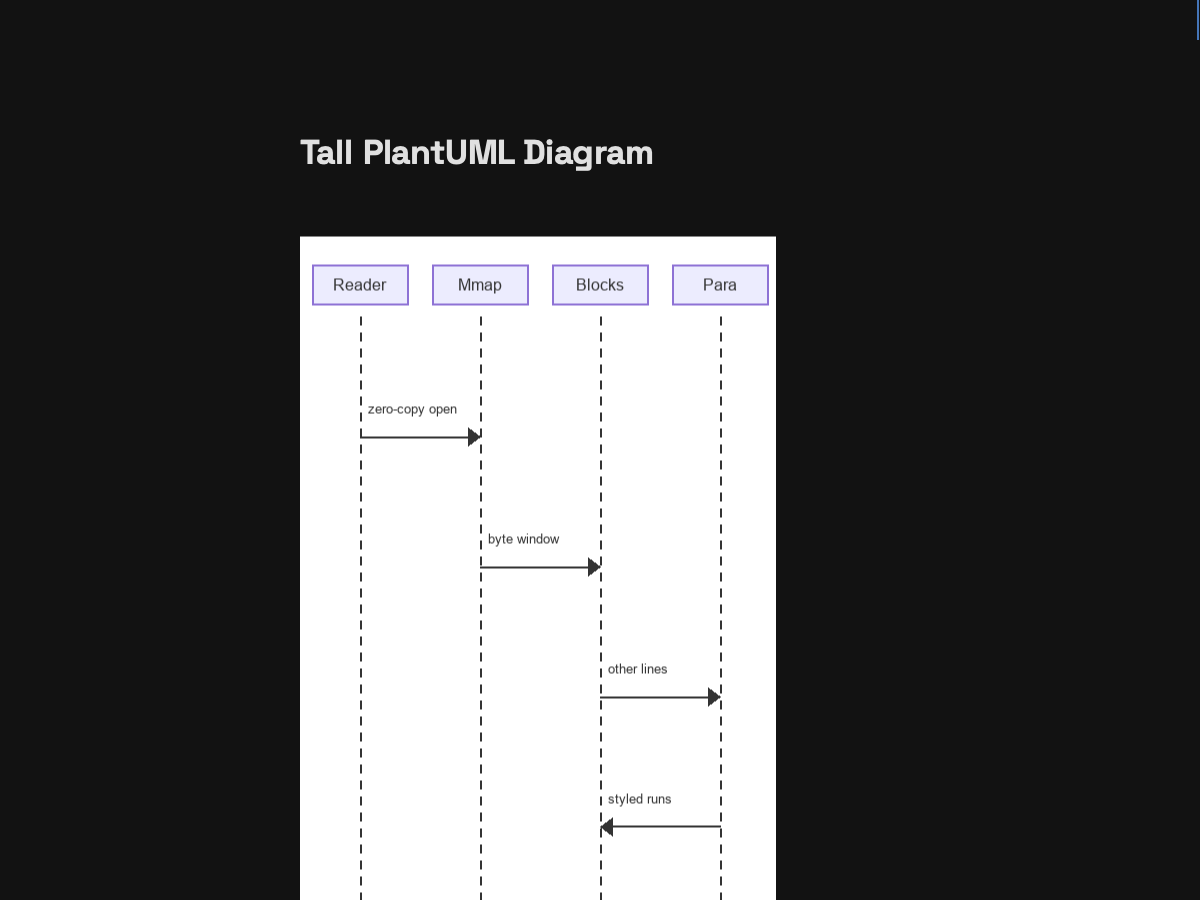
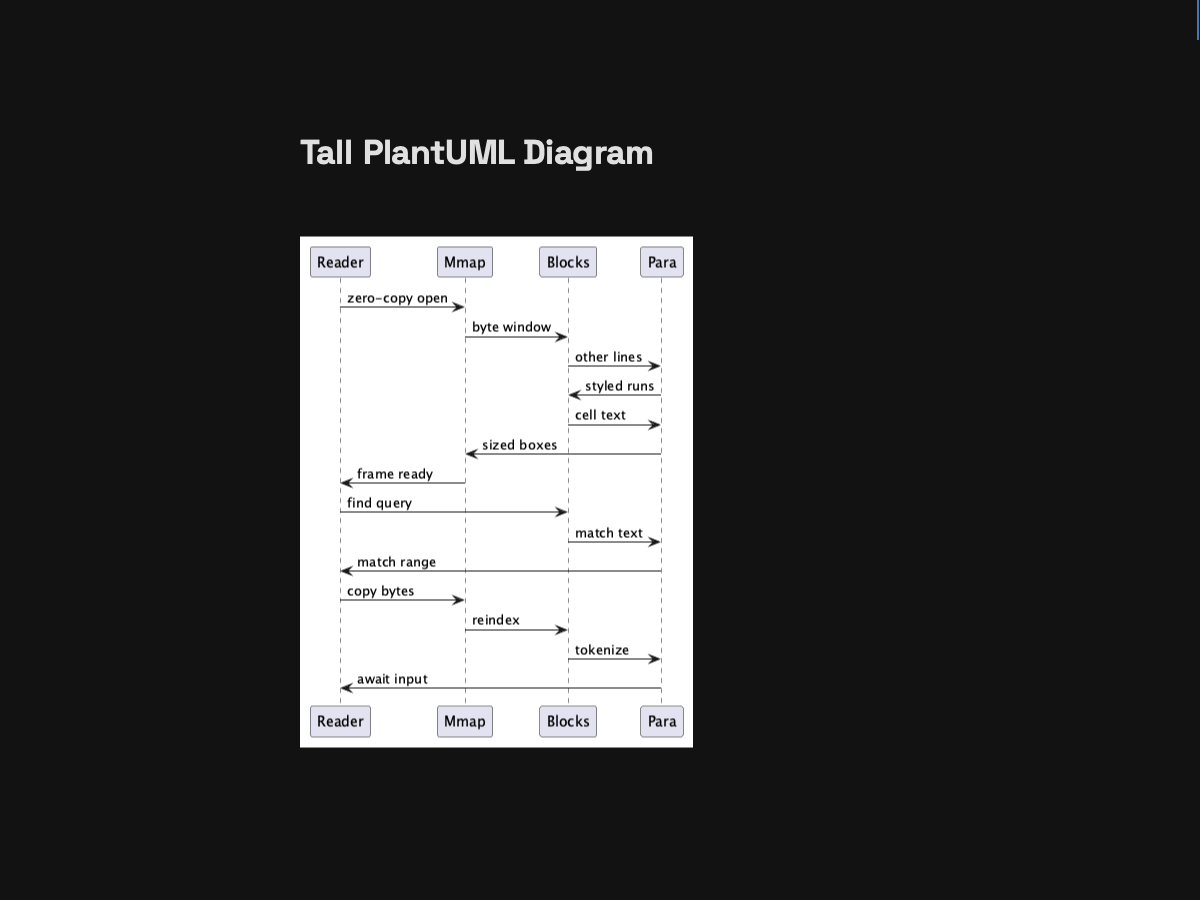
[#328] Real PlantUML renders for all seeds (round-two review)
Owner: the Pillow-mimicked seeds faked PlantUML support. All three
seeds are now genuine PlantUML 1.2026.8 output for the exact fixture
fence sources (plantuml -tpng, the shipped helper's flags), verified
reproducible: scripts/gen-plugin-seeds.py shells out to the real
plantuml binary (fails loudly without it) and regenerates
pixel-identical assets for all three. The fixtures compiled cleanly as
written; only the pixels change.

PlantUML lays sequence diagrams out compactly (tall is 393x511, not a
2080px sheet), so the whole render fits the initial fold: the 700/1400
scrolled frames are removed (700 showed only the bottom footer sliver
plus empty viewport). Complexity coverage stays in the diagrams
themselves: 14 messages across four participants, eight participants
wide.

Suite 436/436 green. No src/ changes: ship binary untouched by this PR.

Changed region(s): [[0.2467, 0.2489, 0.6475, 1.0], [0.2775, 0.4356, 0.4625, 0.5911], [0.37, 0.56, 0.4008, 0.5911]]

diff --git a/scripts/gen-plugin-seeds.py b/scripts/gen-plugin-seeds.py
@@ -1,16 +1,19 @@
 #!/usr/bin/env python3
 """Regenerate plugin seed PNGs (issues #330/#329/#328/#326/#327).
 
-Each seed is a faithful static mimic of a real renderer output for its
-test_cases/plugin_*.md fixture: d2/graphviz/plantuml draw the fixture's
-two-node diagram (labels mirror the fixture), math/mathjax draw the
-fixture's formula typeset in STIX. Tall/wide companions
-(*-seed-tall.png, *-seed-wide.png) mirror the tall/wide fixtures
-node-for-node the same way; math-seed.png draws the simplified fixture
-formula, *-seed-complex.png the complex companions. Synthetic-but-plausible
-stand-ins (no d2/dot/plantuml/katex binaries in this env); the screenshot
-path proven (stat-exists seed -> ready -> stock image decode) is production,
-per suite practice (cf. scripts/gen-mermaid-seed.py).
+plantuml seeds are genuine PlantUML-engine renders of their
+test_cases/plugin_plantuml*.md fixture fence sources (PlantUML 1.2026.8;
+*_seed functions shell out to the real binary and fail loudly without
+it). Remaining seeds are faithful static mimics of real renderer output:
+d2/graphviz draw the fixture's diagram (labels mirror the fixture),
+math/mathjax draw the fixture's formula typeset in STIX. Tall/wide
+companions (*-seed-tall.png, *-seed-wide.png) mirror the tall/wide
+fixtures node-for-node the same way; math-seed.png draws the simplified
+fixture formula, *-seed-complex.png the complex companions.
+Synthetic-but-plausible stand-ins (no d2/dot/katex binaries in this env);
+the screenshot path proven (stat-exists seed -> ready -> stock image
+decode) is production, per suite practice
+(cf. scripts/gen-mermaid-seed.py).
 
 Requires Pillow (fixture generation only, never ships): pip install pillow.
 Usage:  python3 scripts/gen-plugin-seeds.py
@@ -88,30 +91,80 @@ def graphviz_seed():
     return im, "graphviz-seed.png"
 
 
+def _real_tool_render(fixture_md, info_token, out_name, tool, args):
+    # Genuine engine render of the fixture's fence source (round-two
+    # revision: seeds are real tool output, never Pillow mimics). Fails
+    # loudly when the tool is absent so a synthetic image can never pass
+    # silently.
+    import subprocess
+    import tempfile
+    root = os.path.dirname(os.path.dirname(os.path.abspath(__file__)))
+    lines = open(os.path.join(root, fixture_md)).read().split('\n')
+    start = next(i for i, l in enumerate(lines)
+                 if l.lstrip().startswith('```') and
+                 l.lstrip()[3:].strip().split(' ')[:1] == [info_token])
+    end = next(i for i in range(start + 1, len(lines))
+               if lines[i].lstrip().startswith('```'))
+    with tempfile.NamedTemporaryFile('w', suffix='.src',
+                                     delete=False) as f:
+        f.write('\n'.join(lines[start + 1:end]) + '\n')
+        src = f.name
+    out = os.path.join(os.getcwd(), out_name)
+    try:
+        r = subprocess.run([tool] + [a.replace('SRC', src).replace(
+            'OUT', out) for a in args], capture_output=True, text=True)
+    except FileNotFoundError:
+        sys.exit("FAIL: %s binary not found (needed for %s)" %
+                 (tool, out_name))
+    finally:
+        os.unlink(src)
+    if r.returncode != 0 or not os.path.exists(out):
+        sys.exit("FAIL: %s render %s: %s" %
+                 (tool, fixture_md, (r.stderr or '').strip()))
+    return Image.open(out), out_name
+
+
+def _plantuml_render(fixture_md, out_name):
+    # Genuine PlantUML render (1.2026.8). plantuml writes to an output
+    # DIRECTORY (plantuml -tpng -o OUTDIR SRC, the shipped helper's flags),
+    # so render into a temp dir and promote the single PNG. Fails loudly
+    # without the binary.
+    import shutil
+    import subprocess
+    import tempfile
+    root = os.path.dirname(os.path.dirname(os.path.abspath(__file__)))
+    lines = open(os.path.join(root, fixture_md)).read().split('\n')
+    start = next(i for i, l in enumerate(lines)
+                 if l.lstrip().startswith('```') and
+                 l.lstrip()[3:].strip().split(' ')[:1] == ['plantuml'])
+    end = next(i for i in range(start + 1, len(lines))
+               if lines[i].lstrip().startswith('```'))
+    workdir = tempfile.mkdtemp()
+    src = os.path.join(workdir, "fixture.puml")
+    with open(src, 'w') as f:
+        f.write('\n'.join(lines[start + 1:end]) + '\n')
+    outdir = os.path.join(workdir, "out")
+    os.mkdir(outdir)
+    try:
+        r = subprocess.run(["plantuml", "-tpng", "-o", outdir, src],
+                           capture_output=True, text=True)
+    except FileNotFoundError:
+        sys.exit("FAIL: plantuml binary not found (needed for %s)" %
+                 out_name)
+    made = [p for p in os.listdir(outdir) if p.endswith(".png")]
+    if r.returncode != 0 or len(made) != 1:
+        sys.exit("FAIL: plantuml render %s: %s" %
+                 (fixture_md, (r.stderr or '').strip()))
+    out = os.path.join(os.getcwd(), out_name)
+    shutil.move(os.path.join(outdir, made[0]), out)
+    shutil.rmtree(workdir, ignore_errors=True)
+    return Image.open(out), out_name
+
+
 def plantuml_seed():
-    # Fixture: @startuml / Reader -> Diagram : opens doc / @enduml.
-    # Sequence-diagram mimic: participant heads, dashed lifelines, one
-    # message arrow carrying the fixture's label.
-    W, H = 476, 320
-    im = Image.new("RGB", (W, H), BG)
-    d = ImageDraw.Draw(im)
-    font = load_font(ARIAL, 22)
-    font_msg = load_font(ARIAL, 16)
-    p1 = (40, 28, 180, 68)
-    p2 = (296, 28, 436, 68)
-    d.rectangle(p1, fill=FILL, outline=EDGE, width=EDGE_W)
-    d.rectangle(p2, fill=FILL, outline=EDGE, width=EDGE_W)
-    center_text(d, 110, 48, "Reader", font)
-    center_text(d, 366, 48, "Diagram", font)
-    for x in (110, 366):
-        y = 80
-        while y < 300:
-            d.line([(x, y), (x, min(y + 8, 300))], fill=INK, width=2)
-            y += 16
-    d.line([(110, 160), (354, 160)], fill=INK, width=2)
-    d.polygon([(366, 160), (354, 151), (354, 169)], fill=INK)
-    d.text((118, 132), "opens doc", font=font_msg, fill=INK, anchor="lm")
-    return im, "plantuml-seed.png"
+    # Fixture test_cases/plugin_plantuml.md: genuine PlantUML output.
+    return _plantuml_render("test_cases/plugin_plantuml.md",
+                            "plantuml-seed.png")
 
 
 def _typeset(formula_runs, size=44, small=30, pad=28):
@@ -455,49 +508,15 @@ def _plant_msg(d, x0, x1, y, label, font_msg):
 
 
 def plantuml_seed_tall():
-    # Fixture test_cases/plugin_plantuml_tall.md (14-message exchange
-    # across four participants).
-    W, H = 476, 2080
-    parts = _PLANT_TALL_PARTS
-    xs = [60, 180, 300, 420]
-    x_of = dict(zip(parts, xs))
-    im = Image.new("RGB", (W, H), BG)
-    d = ImageDraw.Draw(im)
-    font = load_font(ARIAL, 16)
-    font_msg = load_font(ARIAL, 13)
-    for p in parts:
-        x = x_of[p]
-        d.rectangle((x - 48, 28, x + 48, 68), fill=FILL,
-                    outline=EDGE, width=EDGE_W)
-        center_text(d, x, 48, p, font)
-    for x in xs:
-        _plant_lifeline(d, x, 80, H - 24)
-    y = 200
-    for a, b, label in _PLANT_TALL_MSGS:
-        _plant_msg(d, x_of[a], x_of[b], y, label, font_msg)
-        y += 130
-    return im, "plantuml-seed-tall.png"
+    # Fixture test_cases/plugin_plantuml_tall.md: genuine PlantUML output.
+    return _plantuml_render("test_cases/plugin_plantuml_tall.md",
+                            "plantuml-seed-tall.png")
 
 
 def plantuml_seed_wide():
-    # Fixture test_cases/plugin_plantuml_wide.md (eight participants).
-    W, H = 2000, 600
-    parts = _PLANT_WIDE_PARTS
-    n = len(parts)
-    xs = [110 + i * (1780 // (n - 1)) for i in range(n)]
-    x_of = dict(zip(parts, xs))
-    im = Image.new("RGB", (W, H), BG)
-    d = ImageDraw.Draw(im)
-    font = load_font(ARIAL, 22)
-    font_msg = load_font(ARIAL, 16)
-    _plant_heads(d, parts, x_of, font)
-    for x in xs:
-        _plant_lifeline(d, x, 80, H - 24)
-    y = 190
-    for a, b, label in _PLANT_WIDE_MSGS:
-        _plant_msg(d, x_of[a], x_of[b], y, label, font_msg)
-        y += 56
-    return im, "plantuml-seed-wide.png"
+    # Fixture test_cases/plugin_plantuml_wide.md: genuine PlantUML output.
+    return _plantuml_render("test_cases/plugin_plantuml_wide.md",
+                            "plantuml-seed-wide.png")
 
 
 def math_seed_complex():
